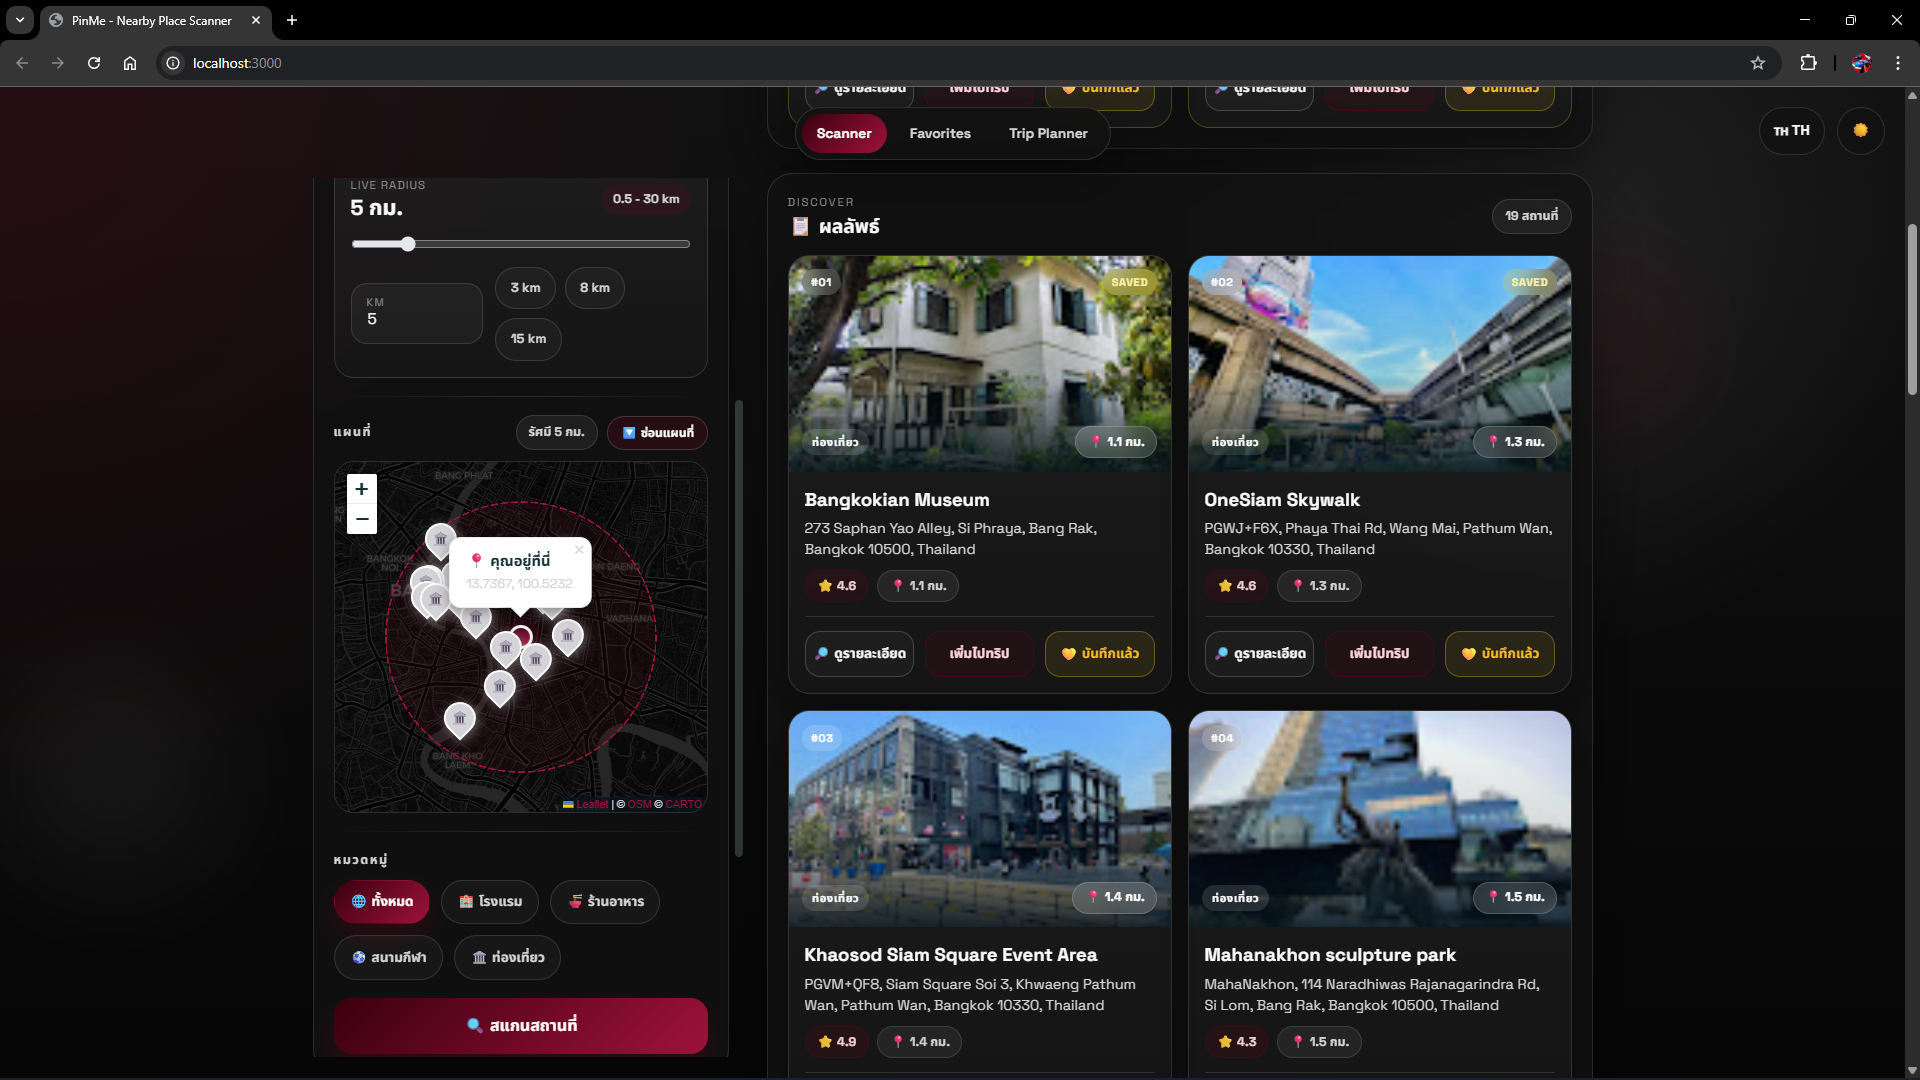
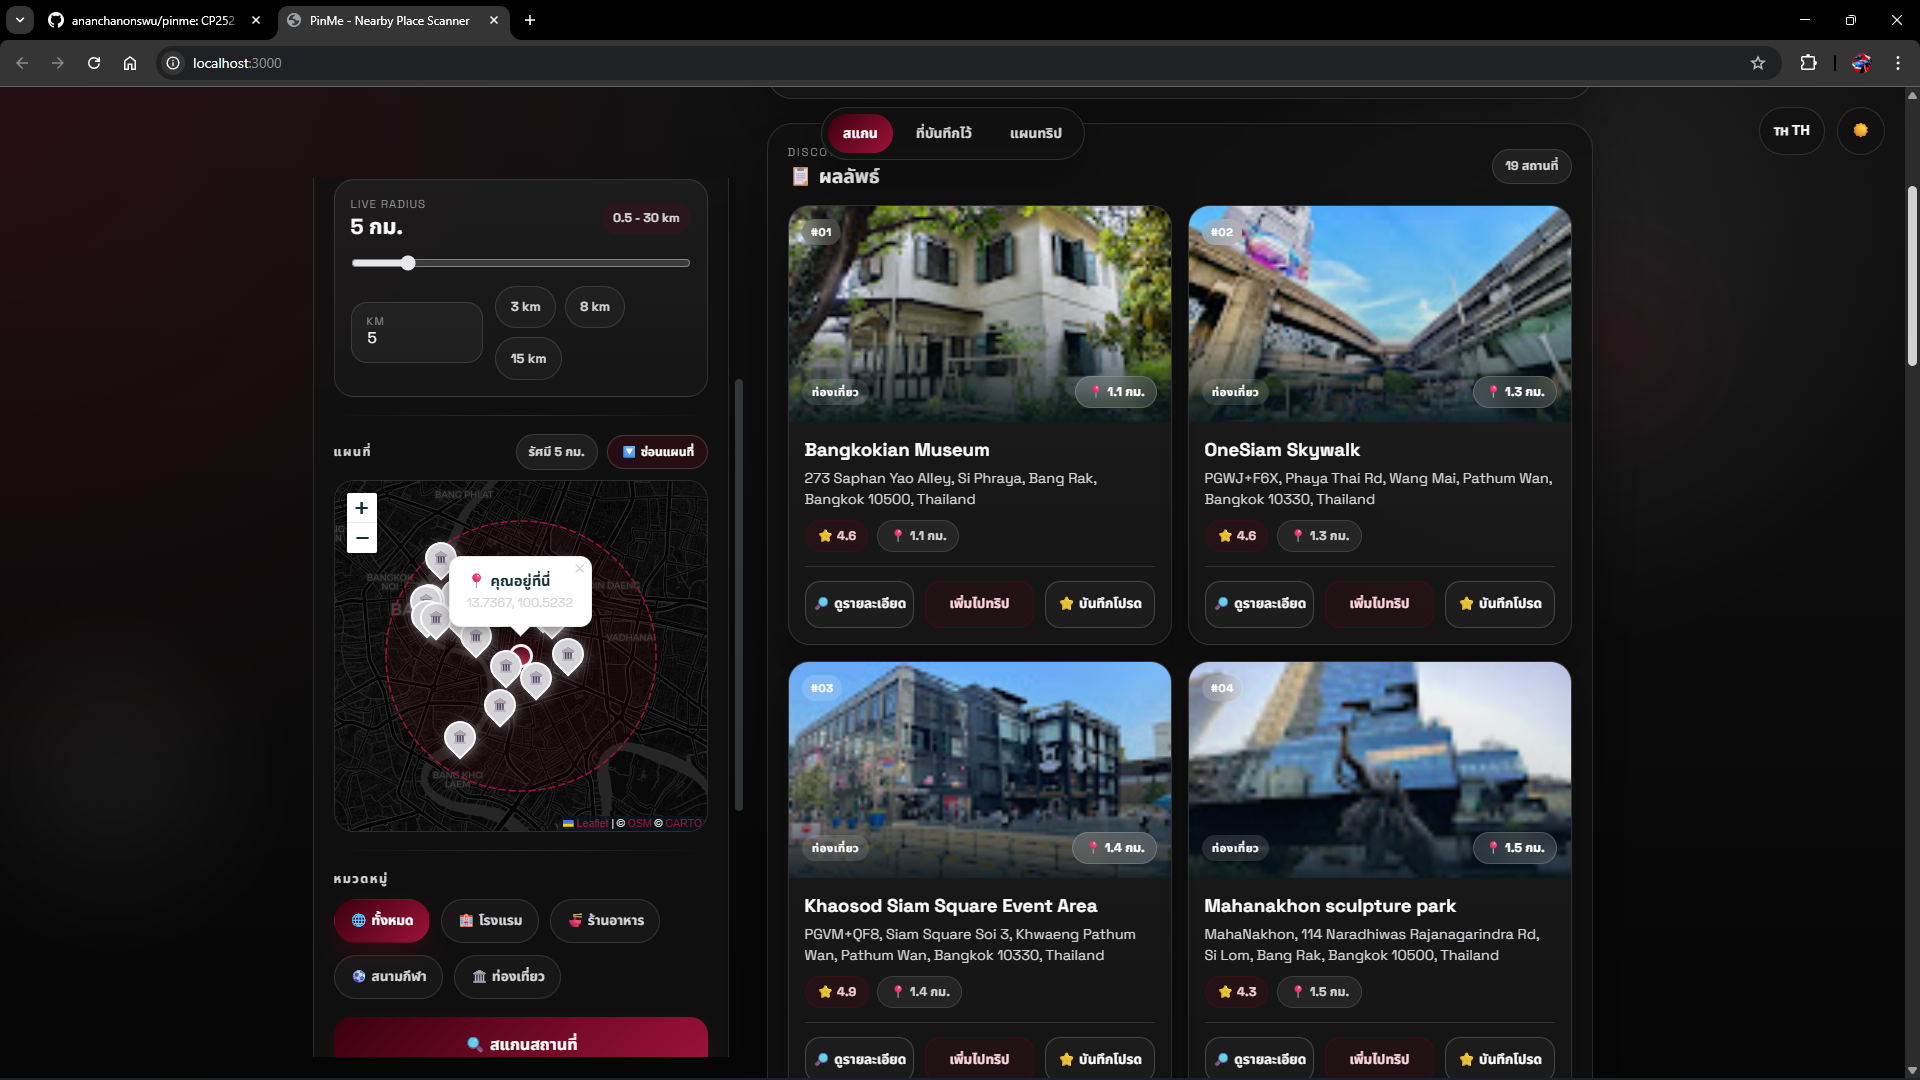
update pinme and screenshot

diff --git a/README.md b/README.md
@@ -877,9 +877,9 @@ graph TB
 
 ![website](docs/pinme_website_screenshots/screenshot_trip_planner.png)
 
-### 2.8 ภาษาไทย (Thai Mode)
+### 2.8 โหมดภาษาอังกฤษ (English Language Mode)
 
-![website](docs/pinme_website_screenshots/screenshot_thai.png)
+![website](docs/pinme_website_screenshots/screenshot_eng.png)
 </details>
 
 ---
